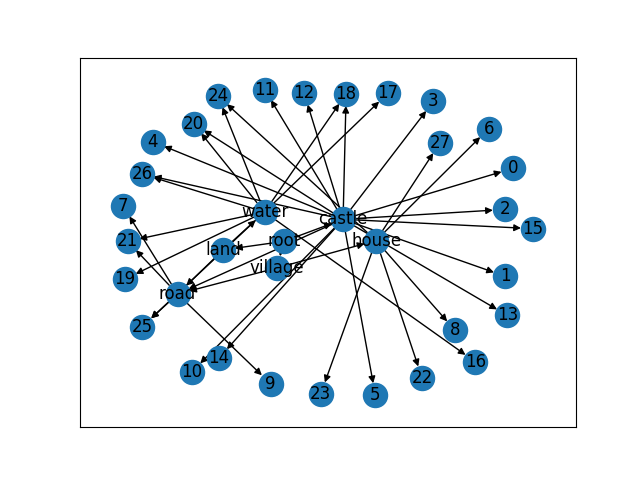
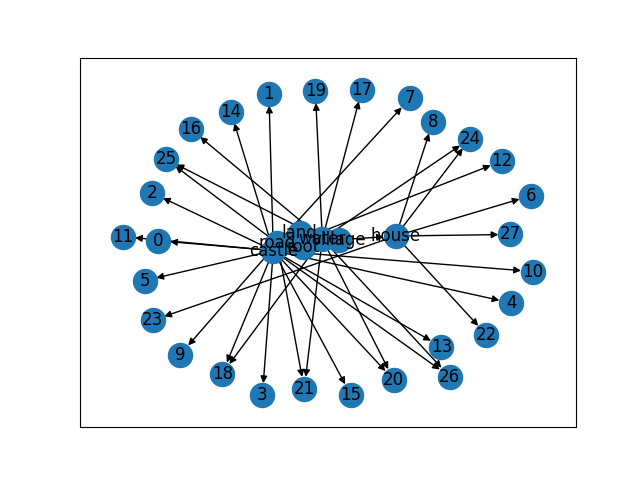
fixed weighted selection of tile
fixed weighted selection of tile

Changed region(s): [[0.1562, 0.1562, 0.875, 0.875], [0.5938, 0.3125, 0.625, 0.3438]]

diff --git a/HSWFC.py b/HSWFC.py
@@ -6,7 +6,7 @@ import random
 
 
 dag = nx.DiGraph()
-dag.add_weighted_edges_from([("root", "village", 0.3), ("root", "castle", 0.3), ("root", "land", 0.3), ("village", "house", 0.5), ("village", "road", 0.5), ("castle", "road", 0.3), ("land", "road", 0.3), ("land", "water", 0.4), ("house", "22", 0.1), ("house", "6", 0.1), ("house", "6", 0.1), ("house", "8", 0.1), ("house", "23", 0.1), ("road", "7", 0.1), ("road", "9", 0.1), ("house", "24", 0.1), ("water", "24", 0.1), ("castle", "0", 0.3), ("castle", "1", 0.3), ("castle", "2", 0.3), ("castle", "5", 0.3), ("castle", "12", 0.1), ("castle", "14", 0.1), ("castle", "26", 0.1), ("water", "26", 0.1), ("castle", "3", 0.1), ("castle", "4", 0.1), ("castle", "10", 0.1), ("castle", "11", 0.6), ("castle", "13", 0.1), ("castle", "15", 0.1), ("road", "21", 0.1), ("water", "21", 0.1), ("road", "25", 0.1), ("water", "25", 0.1), ("castle", "18",0.1), ("water", "18", 0.1), ("castle", "20", 0.1), ("water", "20", 0.1), ("water", "16", 0.1), ("water", "17", 0.1), ("water", "19", 0.1), ("house", "27", 0.1)])
+dag.add_weighted_edges_from([("root", "village", 0.3), ("root", "castle", 0.4), ("root", "land", 0.3), ("village", "house", 0.5), ("village", "road", 0.5), ("castle", "road", 0.3), ("land", "road", 0.3), ("land", "water", 0.4), ("house", "22", 0.1), ("house", "6", 0.1), ("house", "6", 0.1), ("house", "8", 0.1), ("house", "23", 0.1), ("road", "7", 0.1), ("road", "9", 0.1), ("house", "24", 0.1), ("water", "24", 0.1), ("castle", "0", 0.3), ("castle", "1", 0.3), ("castle", "2", 0.3), ("castle", "5", 0.3), ("castle", "12", 0.1), ("castle", "14", 0.1), ("castle", "26", 0.1), ("water", "26", 0.1), ("castle", "3", 0.1), ("castle", "4", 0.1), ("castle", "10", 0.1), ("castle", "11", 0.6), ("castle", "13", 0.1), ("castle", "15", 0.1), ("road", "21", 0.1), ("water", "21", 0.1), ("road", "25", 0.1), ("water", "25", 0.1), ("castle", "18",0.1), ("water", "18", 0.1), ("castle", "20", 0.1), ("water", "20", 0.1), ("water", "16", 0.1), ("water", "17", 0.1), ("water", "19", 0.1), ("house", "27", 0.1)])
 # old dag with road being almost everything dag.add_weighted_edges_from([("root", "village", 0.4), ("root", "castle", 0.1), ("root", "land", 0.4), ("village", "house", 0.6), ("village", "road", 0.4), ("castle", "road", 0.1), ("land", "road", 0.6), ("land", "water", 0.4), ("house", "22", 0.1), ("house", "6", 0.1), ("house", "6", 0.1), ("house", "8", 0.1), ("house", "23", 0.1), ("road", "23", 0.1), ("road", "7", 0.1), ("road", "9", 0.1), ("house", "24", 0.1), ("road", "24", 0.1), ("water", "24", 0.1), ("road", "0", 0.1), ("castle", "0", 0.1), ("road", "1", 0.1), ("castle", "1", 0.1), ("road", "2", 0.1), ("castle", "2", 0.1), ("road", "5", 0.1), ("castle", "5", 0.1), ("road", "12", 0.1), ("castle", "12", 0.1), ("road", "14", 0.1), ("castle", "14", 0.1), ("road", "26", 0.1), ("castle", "26", 0.1), ("water", "26", 0.1), ("castle", "3", 0.1), ("castle", "4", 0.1), ("castle", "10", 0.1), ("castle", "11", 0.1), ("castle", "13", 0.1), ("castle", "15", 0.1), ("road", "21", 0.1), ("water", "21", 0.1), ("road", "25", 0.1), ("water", "25", 0.1), ("castle", "18",0.1), ("water", "18", 0.1), ("castle", "20", 0.1), ("water", "20", 0.1), ("water", "16", 0.1), ("water", "17", 0.1), ("water", "19", 0.1), ("house", "27", 0.1)])
 
 plt.tight_layout()
@@ -165,7 +165,8 @@ class Tile:
     def collapse(self):
         print("current tile:", self.c, self.r, "with entropy", self.entropy)
         self.collapsed = True
-        if len(self.potentialTiles) > 1:   
+        if len(self.potentialTiles) > 1:  
+            #decide which tile depending on their weight 
             weight = 0 
             potTiles=[]
             for tile in self.potentialTiles:
@@ -180,18 +181,23 @@ class Tile:
                             w+=dag[pre_l2][pre]["weight"]
                             predec_l3 = list(dag.predecessors(pre_l2))
                             if predec_l3 == []:
-                                if w >= weight: 
+                                if w > weight: 
+                                    weight = w
+                                    potTiles = [tile]
+                                elif w == weight:
                                     weight = w
                                     potTiles.append(tile)
                             else:
                                 pre_l3 = predec_l3[0] #based on how our graph look there should only be one here
-                                w+=dag[pre_l3][pre_l2]["weight"] 
-                                if w >= weight: 
+                                w+=dag[pre_l3][pre_l2]["weight"]
+                                if w > weight:
+                                    weight = w
+                                    potTiles = [tile]
+                                elif w == weight: 
                                     weight = w
                                     potTiles.append(tile)
-                                    w = f
-                                else:
-                                    w = f #reset to what it was in the beginning of this loop
+
+                                w = f #reset to what it was in the beginning of this loop
       
             potTile = random.choice(potTiles) #if there are more tiles with the same weight, choose randomly
             self.name = potTile["ID"]
